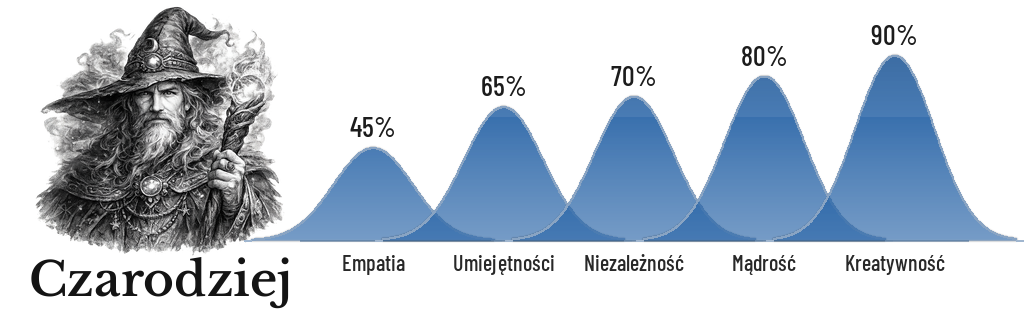
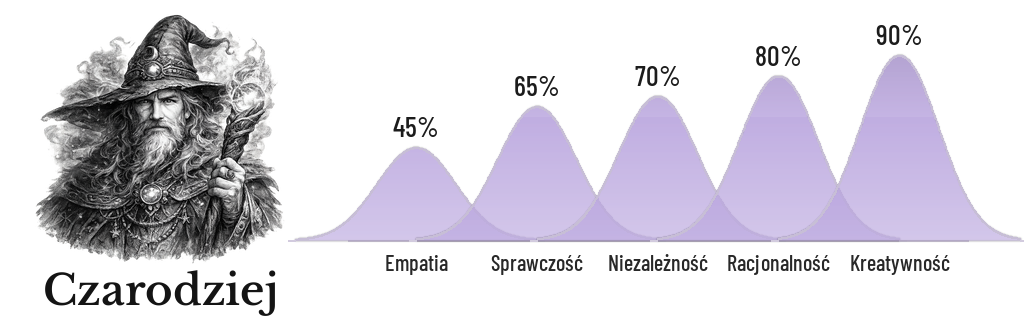
kolejna_duza_zmiana_5

diff --git a/generate_archetype_profile_cards.py b/generate_archetype_profile_cards.py
@@ -17,59 +17,60 @@ CANVAS_W = 1024
 CANVAS_H = 335
 BASELINE_Y = 240
 MAX_PEAK = 205  # 100% -> 205 px (stała skala dla wszystkich kart)
-CHART_X0 = 308
+CHART_X0 = 356
 CHART_X1 = 960
+BAR_SIGMA_PX = 39.0
 
-METRICS = ("Empatia", "Umiejętności", "Niezależność", "Mądrość", "Kreatywność")
+METRICS = ("Empatia", "Sprawczość", "Niezależność", "Racjonalność", "Kreatywność")
 
 ARCHETYPES: dict[str, dict[str, object]] = {
     "Opiekun": {
-        "values": (95, 50, 20, 65, 25),
-        "color": "#1E88E5",
+        "values": (95, 60, 20, 60, 25),
+        "color": "#42A5F5",
     },
     "Kochanek": {
-        "values": (85, 45, 25, 35, 60),
-        "color": "#81D4FA",
+        "values": (85, 45, 25, 30, 60),
+        "color": "#90CAF9",
     },
     "Błazen": {
-        "values": (50, 50, 45, 25, 90),
-        "color": "#FB8C00",
+        "values": (50, 45, 45, 20, 90),
+        "color": "#EF5350",
     },
     "Buntownik": {
-        "values": (20, 55, 95, 30, 85),
+        "values": (20, 60, 95, 25, 85),
         "color": "#C62828",
     },
     "Odkrywca": {
-        "values": (30, 60, 90, 45, 80),
-        "color": "#2E7D32",
+        "values": (30, 55, 90, 45, 80),
+        "color": "#8E0000",
     },
     "Twórca": {
-        "values": (35, 80, 80, 40, 95),
-        "color": "#AB47BC",
+        "values": (35, 75, 80, 40, 95),
+        "color": "#5E35B1",
     },
     "Bohater": {
-        "values": (30, 95, 75, 45, 40),
-        "color": "#EF5350",
+        "values": (30, 95, 75, 40, 40),
+        "color": "#7E57C2",
     },
     "Czarodziej": {
         "values": (45, 65, 70, 80, 90),
-        "color": "#1565C0",
+        "color": "#B39DDB",
     },
     "Mędrzec": {
-        "values": (20, 80, 80, 95, 30),
-        "color": "#7B1FA2",
+        "values": (20, 70, 80, 95, 30),
+        "color": "#1B5E20",
     },
     "Władca": {
-        "values": (25, 85, 70, 75, 25),
-        "color": "#E53935",
+        "values": (25, 90, 70, 75, 25),
+        "color": "#43A047",
     },
     "Niewinny": {
-        "values": (75, 25, 30, 20, 50),
-        "color": "#66BB6A",
+        "values": (75, 30, 30, 50, 50),
+        "color": "#81C784",
     },
     "Towarzysz": {
         "values": (85, 60, 25, 45, 20),
-        "color": "#42A5F5",
+        "color": "#1565C0",
     },
 }
 
@@ -298,8 +299,8 @@ def draw_archetype_panel(name: str, values: tuple[int, ...], color_hex: str) -> 
     canvas = Image.new("RGBA", (CANVAS_W, CANVAS_H), (0, 0, 0, 0))
     draw = ImageDraw.Draw(canvas)
     color_rgb = hex_to_rgb(color_hex)
-    fill_rgb = darken(color_rgb, 0.18)
-    stroke_rgb = darken(color_rgb, 0.31)
+    fill_rgb = color_rgb
+    stroke_rgb = darken(color_rgb, 0.22)
 
     # Portret po lewej
     face = prepare_face(FACES_DIR / f"{name}.png")
@@ -308,7 +309,7 @@ def draw_archetype_panel(name: str, values: tuple[int, ...], color_hex: str) -> 
     ratio = min(max_face_w / face.width, max_face_h / face.height)
     face = face.resize((int(face.width * ratio), int(face.height * ratio)), Image.Resampling.LANCZOS)
     fx = 160 - face.width // 2
-    fy = 6 + max(0, (max_face_h - face.height) // 3)
+    fy = 14 + max(0, (max_face_h - face.height) // 3)
     canvas.alpha_composite(face, (fx, fy))
 
     # Nazwa archetypu
@@ -317,18 +318,22 @@ def draw_archetype_panel(name: str, values: tuple[int, ...], color_hex: str) -> 
             FONTS_DIR / "LibreBaskerville-SemiBold.ttf",
             ROOT / "DejaVuSans-Bold.ttf",
         ],
-        size=47,
+        size=42,
     )
     title_bbox = draw.textbbox((0, 0), name, font=title_font)
     title_w = title_bbox[2] - title_bbox[0]
-    draw.text((160 - title_w // 2, 250), name, fill=(20, 20, 20, 255), font=title_font)
+    title_h = title_bbox[3] - title_bbox[1]
+    face_bottom = fy + face.height
+    # Nazwa zawsze pod portretem, z wyraźnym odstępem i bez obcinania dołu.
+    title_y = min(CANVAS_H - title_h - 6, face_bottom + 0)
+    draw.text((160 - title_w // 2, int(title_y)), name, fill=(20, 20, 20, 255), font=title_font)
 
     # Delikatna linia bazowa wykresu
     draw.line((CHART_X0 - 8, BASELINE_Y, CHART_X1 + 8, BASELINE_Y), fill=(*stroke_rgb, 92), width=2)
 
     chart_width = CHART_X1 - CHART_X0
     step = chart_width / len(values)
-    sigma = step * 0.30
+    sigma = BAR_SIGMA_PX
     gradient = gradient_fill(
         (CANVAS_W, CANVAS_H),
         fill_rgb,

diff --git a/admin_dashboard.py b/admin_dashboard.py
@@ -8433,7 +8433,7 @@ def show_report(sb, study: dict, wide: bool = True, public_view: bool = False) -
                 if not items:
                     return
                 st.markdown(
-                    "<div style='font-size:1.03em;font-weight:700;color:#334155;margin-top:2px;margin-bottom:10px;'>"
+                    "<div style='font-size:1.03em;font-weight:700;color:#334155;margin-top:4px;margin-bottom:14px;'>"
                     "TOP2/TOP3 – profile archetypów"
                     "</div>",
                     unsafe_allow_html=True,
@@ -8442,22 +8442,23 @@ def show_report(sb, study: dict, wide: bool = True, public_view: bool = False) -
                     st.markdown(
                         (
                             "<div style='font-size:.9em;font-weight:700;color:#475569;"
-                            "margin-top:8px;margin-bottom:6px;'>"
+                            "margin-top:14px;margin-bottom:10px;'>"
                             f"TOP{rank}: {html.escape(title)}"
                             "</div>"
                         ),
                         unsafe_allow_html=True,
                     )
                     st.image(str(card_path), use_column_width=True)
+                    st.markdown("<div style='height:18px;'></div>", unsafe_allow_html=True)
 
             if is_mobile:
                 st.image(segment_profile_png_path, use_column_width=True)
                 _render_top_profile_cards(profile_cards_for_top)
             else:
                 if profile_cards_for_top:
-                    profile_col, cards_col = st.columns([0.63, 0.37], gap="large")
+                    profile_col, cards_col = st.columns([0.52, 0.48], gap="large")
                     with profile_col:
-                        st.image(segment_profile_png_path, width=segment_profile_width)
+                        st.image(segment_profile_png_path, width=int(segment_profile_width * 0.88))
                     with cards_col:
                         _render_top_profile_cards(profile_cards_for_top)
                 else:
